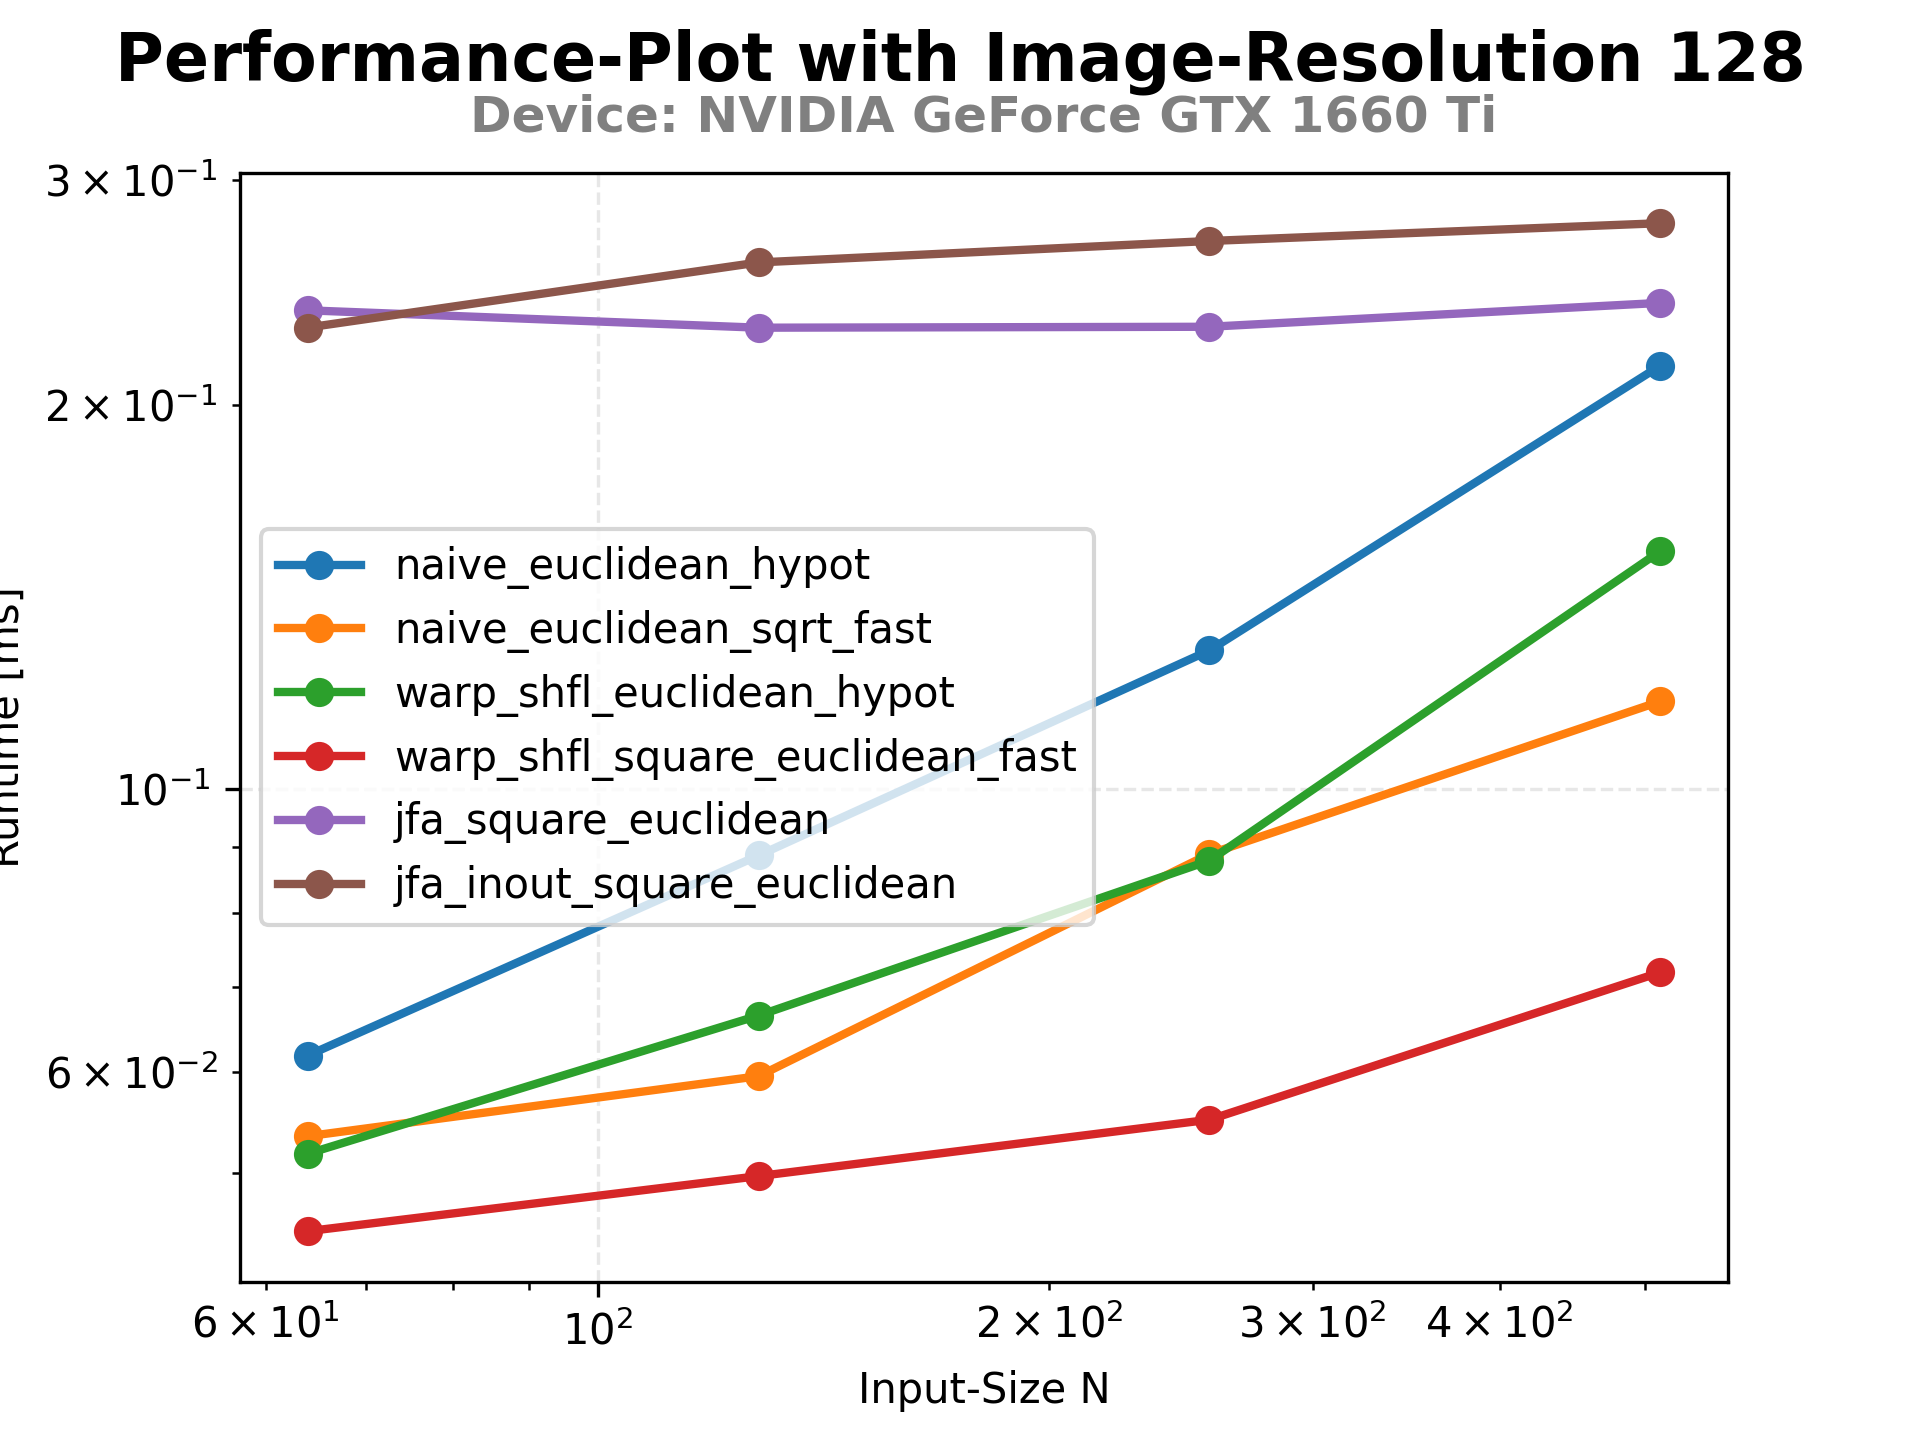
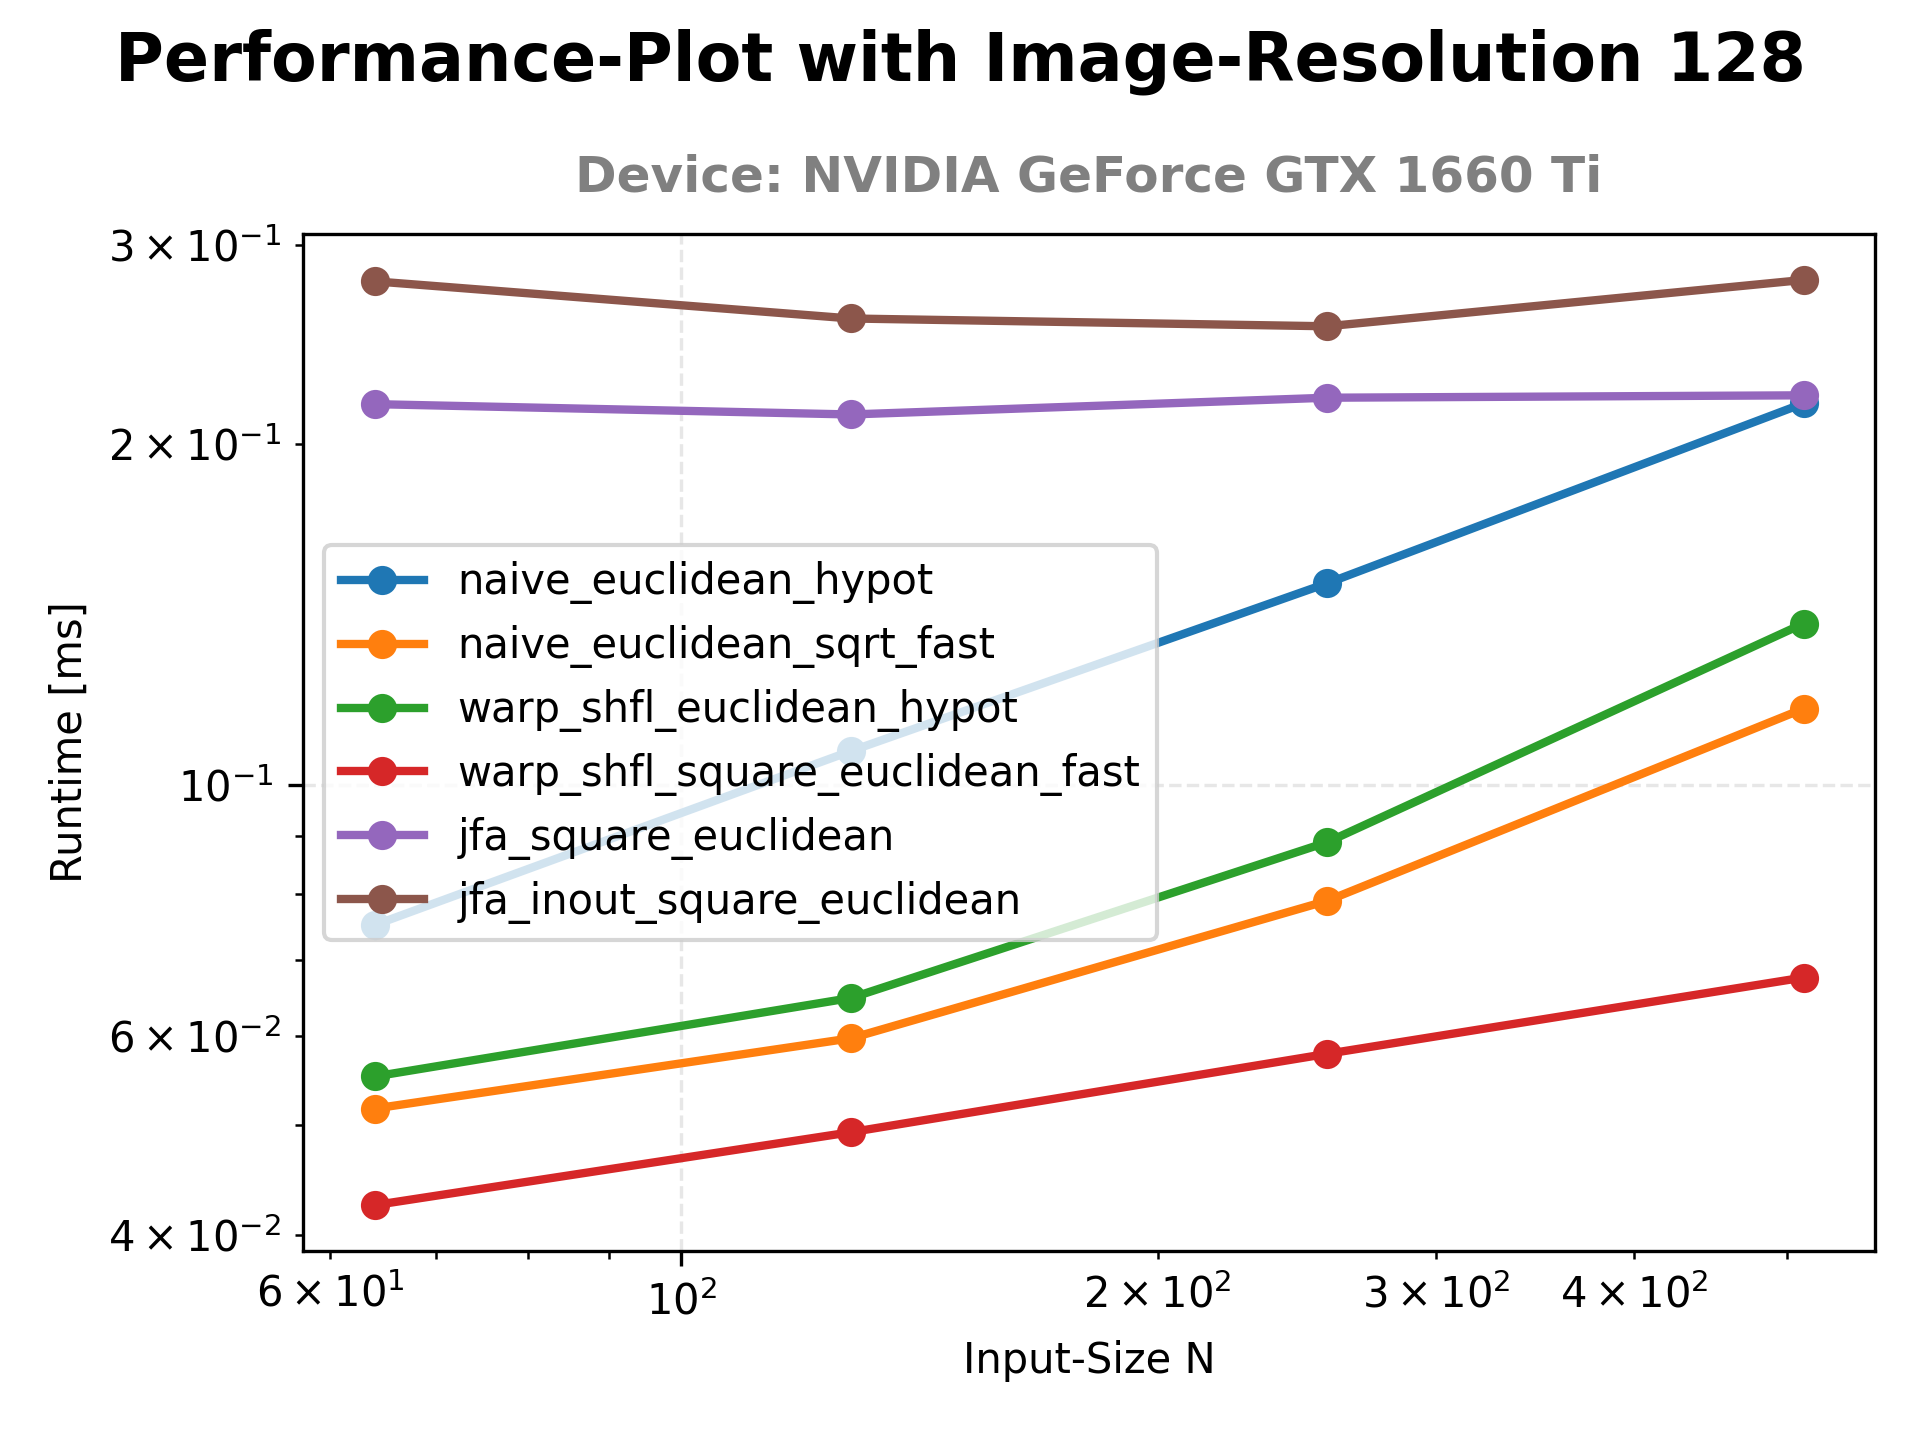
Update performance plots for task7 on GTX 1660 Ti

diff --git a/doc/README.md b/doc/README.md
@@ -1103,13 +1103,21 @@ Es ist zu sehen, dass für die Eingabe-Größen `512` und `2048` des Raster eine
 
 Abschließend werden die besten Algorithmen gemeinsam betrachtet und gegenübergestellt. Die folgenden Diagramme zeigen die Laufzeiten der jeweiligen Kernel für eine feste Bildgröße von $128 \times 128$ und eine variierende Anzahl an Punkten:
 
+```bash
+uv run .\src\task7.py compare-naive_euclidean_hypot-naive_euclidean_sqrt_fast-warp_shfl_euclidean_hypot-warp_shfl_square_euclidean_fast-jfa_square_euclidean-jfa_inout_square_euclidean final
+```
+
 | RTX 5070                                                                                             | GTX 1660 Ti                                                                                             |
 | ---------------------------------------------------------------------------------------------------- | ------------------------------------------------------------------------------------------------------- |
 | ![](../data/performance_plot_NVIDIA-GeForce-RTX-5070_final_resolution=128_points=64,128,256,512.png) | ![](../data/performance_plot_NVIDIA-GeForce-GTX-1660-Ti_final_resolution=128_points=64,128,256,512.png) |
 
-Der Pixel-Algorithmus ist vor allem bei einer geringen Punktemenge sehr schnell und weist eine deutlich bessere Laufzeit als der JFA auf. Mit zunehmender Anzahl von Punkten im Diagramm nimmt die Laufzeit jedoch quadratisch zu. Ab einer bestimmten Anzahl greift die JFA-Charakteristik und der JFA ist schneller. Dieser Übergang erfolgt je nach Implementierung des Pixel-Algorithmus zu einem späteren Zeitpunkt, aber irgendwann wird der Schnittpunkt zwingend erreicht.
+Der Pixel-Algorithmus ist vor allem bei einer geringen Punktemenge sehr schnell und weist eine deutlich bessere Laufzeit als der JFA auf. Mit zunehmender Anzahl von Punkten im Diagramm nimmt die Laufzeit jedoch zu. Ab einer bestimmten Anzahl greift die JFA-Charakteristik und der JFA ist schneller. Dieser Übergang erfolgt je nach Implementierung des Pixel-Algorithmus zu einem späteren Zeitpunkt, aber irgendwann wird der Schnittpunkt zwingend erreicht.
 
-Das gleiche Diagramm wurde für die Bildgröße $2048 \times 2048$ erstellt, um diesen Schnittpunkt zu zeigen.
+Um diesen Schnittpunkt zu zeigen, wurde das gleiche Diagramm für die Bildgröße $2048 \times 2048$ erstellt:
+
+```bash
+uv run .\src\task7.py compare-2048-naive_euclidean_hypot-naive_euclidean_sqrt_fast-warp_shfl_euclidean_hypot-warp_shfl_square_euclidean_fast-jfa_square_euclidean-jfa_inout_square_euclidean final
+```
 
 | RTX 5070                                                                                              | GTX 1660 Ti                                                                                              |
 | ----------------------------------------------------------------------------------------------------- | -------------------------------------------------------------------------------------------------------- |